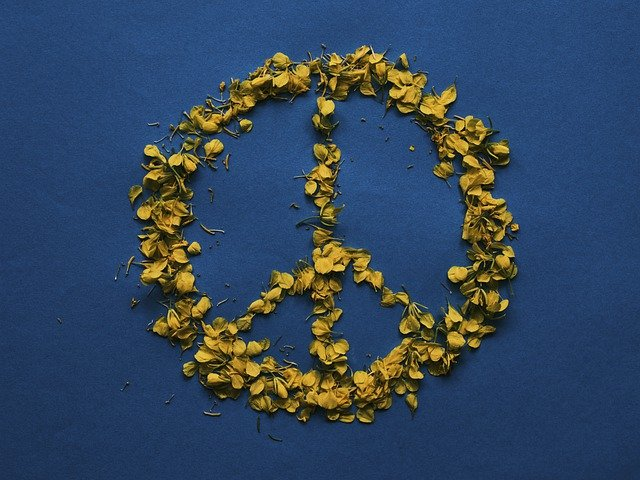
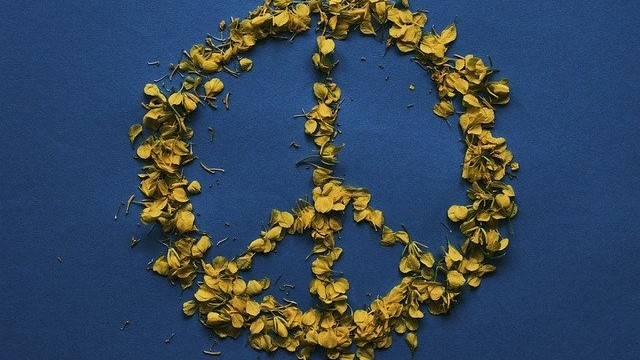
Configure Header and cut pics to size 16:9

diff --git a/index.html b/index.html
@@ -4,13 +4,15 @@
         <meta charset="UTF-8">
         <meta name="viewport" content="width=device-width, initial-scale=1.0">
         <meta http-equiv="X-UA-Compatible" content="ie=edge">
-        <title>Personal Blob Website</title>
+        <title>Personal Blog Website</title>
 
         <link href="css/styles.css" type="text/css" rel="stylesheet"/>
     </head>
     <body>
         <div class="container">
-            <div class="box" id="header">HEADER</div>
+            <div class="box" id="header">
+                <h1>Personal Blog</h1>
+            </div>
 
             <div class="box" id="main">
                 <div class="card">
@@ -18,28 +20,28 @@
                         <img src="img/eyes.jpg" alt="Eyes">
                     </div>
                     <div class="headline">Eyes</div>
-                    <div class="date">Bono</div>
+                    <div class="date">created&nbsp<span>23.08.2020</span></div>
                 </div>
                 <div class="card">
                     <div class="pic">
                         <img src="img/peace.jpg" alt="Peace">
                     </div>
                     <div class="headline">Peace</div>
-                    <div class="date">Bono</div>
+                    <div class="date">created&nbsp<span>12.09.2020</span></div>
                 </div>
                 <div class="card">
                     <div class="pic">
                         <img src="img/stork.jpg" alt="Stork">
                     </div>
                     <div class="headline">Stork</div>
-                    <div class="date">Bono</div>
+                    <div class="date">created&nbsp<span>30.11.2020</span></div>
                 </div>
                 <div class="card">
                     <div class="pic">
                         <img src="img/tulipis.jpg" alt="Tulipis">
                     </div>
                     <div class="headline">Tulipis</div>
-                    <div class="date">Bono</div>
+                    <div class="date">created&nbsp<span>02.06.2021</span></div>
                 </div>
             </div>
 

diff --git a/css/styles.css b/css/styles.css
@@ -19,7 +19,8 @@ body{
 }
 
 .box{
-    border: 1px solid black;
+    /* border: 1px solid black; */
+    background-color: azure;
     border-radius: 7px;
     padding: 5px;
     display: grid;
@@ -58,7 +59,7 @@ body{
 
 .headline{
     border: 1px solid black;
-    font-size: 1.25em;
+    font-size: 1.1em;
     grid-area: headline;
     display: flex;
     align-items: center;
@@ -67,15 +68,20 @@ body{
 
 .date{
     border: 1px solid black;
-    font-size: 0.65em;
+    font-size: 0.55em;
     grid-area: date;
     display: flex;
     align-items: center;
     justify-content: center;
 }
 
+.date > span{
+    font-weight: bold;
+}
+
 #header{
     grid-area: hd;
+    justify-content: center;
 }
 
 #main{
@@ -87,6 +93,8 @@ body{
 }
 #footer{
     grid-area: ft;
+    background-color: #282828;
+    color: #fff;
 }
 
 
@@ -112,7 +120,7 @@ body{
 /* Large devices (desktops, 1024px and up) */
 @media screen and (min-width: 1024px) {
     .container{
-        background-color: khaki;
+        /* background-color: khaki; */
         grid-gap: 10px;
         grid-template-areas: 
             "hd hd"
